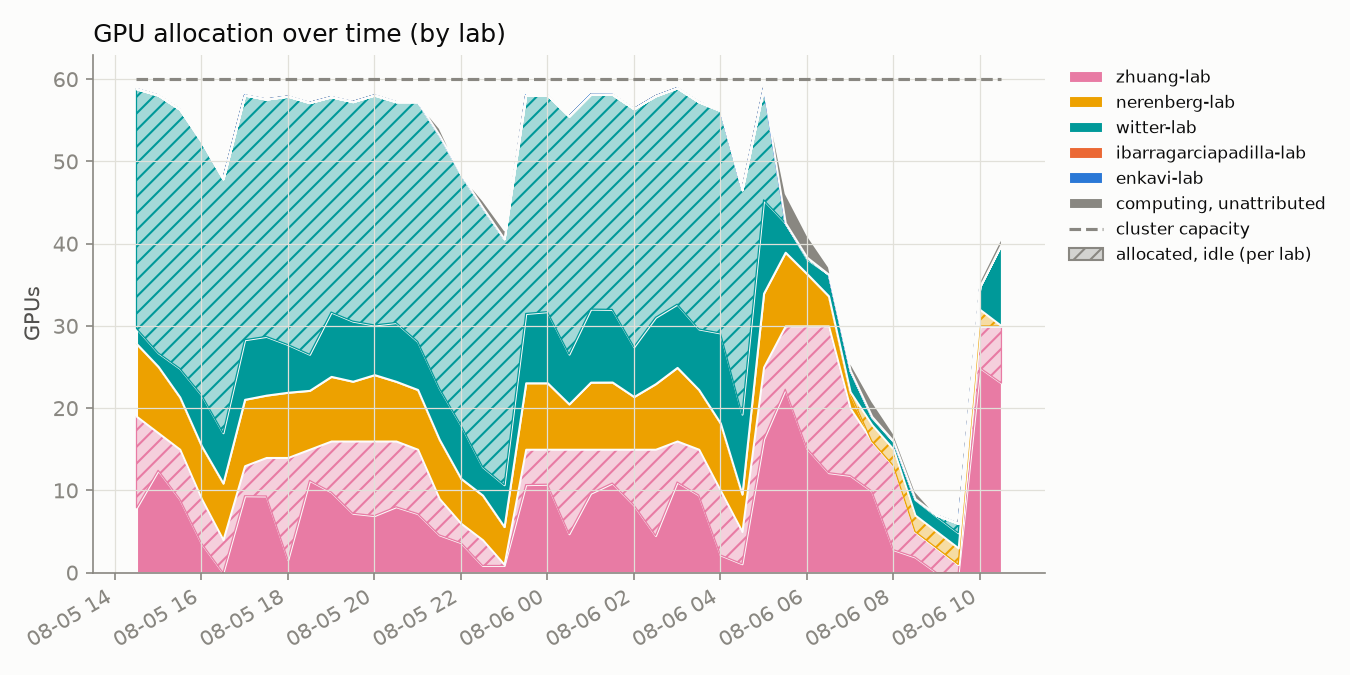
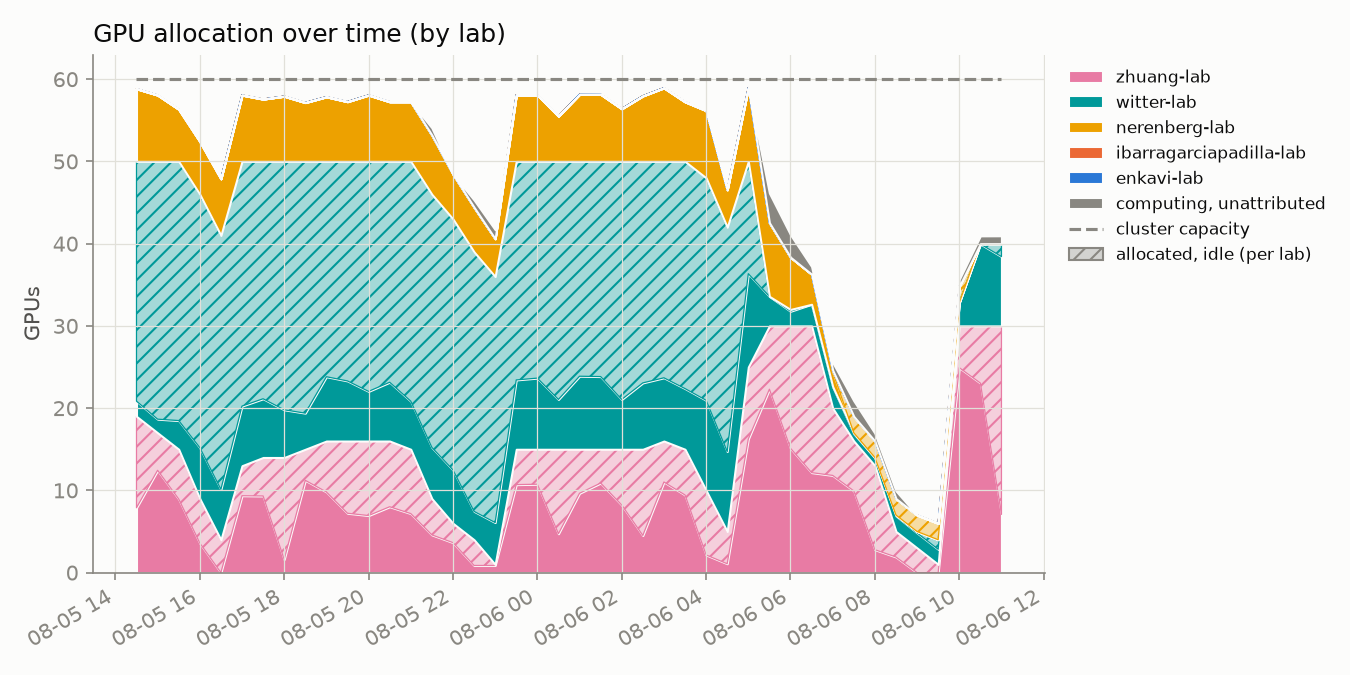
update 2026-08-06T11:00:01-07:00

diff --git a/README.md b/README.md
@@ -2,8 +2,8 @@
 
 Automated GPU/CPU/queue utilization tracker for `hopper.cluster`, updated every 30 minutes by cron. Usernames are anonymized to a stable per-account pseudonym; lab names are real.
 
-Last updated: 2026-08-06T10:30:20-07:00
-Samples: 41 queue snapshots, 41 GPU snapshots
+Last updated: 2026-08-06T11:00:21-07:00
+Samples: 42 queue snapshots, 42 GPU snapshots
 
 ## Resources
 
@@ -16,22 +16,22 @@ Samples: 41 queue snapshots, 41 GPU snapshots
 
 ## Headline
 
-- **71.5%** of the cluster's 60 GPUs allocated, averaged across all samples
+- **71.4%** of the cluster's 60 GPUs allocated, averaged across all samples
 - **39.4%** average `nvidia-smi` utilization *when* a GPU is allocated to a job
-- **81.4%** average cgroup CPU utilization *when* a CPU is allocated to a job
+- **81.7%** average cgroup CPU utilization *when* a CPU is allocated to a job
 
 ## Per lab / per user
 
 <table>
 <tr><th>Lab</th><th>User</th><th align='right'>GPU-hours allocated</th><th align='right'>CPU-hours allocated</th><th align='right'>GPU utilization</th></tr>
 <tr style='background-color:#d8efef'><td>witter-lab</td><td>user-d58f5a15</td><td align='right'>467.5</td><td align='right'>3740.0</td><td align='right'>9%</td></tr>
-<tr style='background-color:#fbebf1'><td>zhuang-lab</td><td>user-0db9ced0</td><td align='right'>301.5</td><td align='right'>301.5</td><td align='right'>49%</td></tr>
-<tr style='background-color:#d8efef'><td>witter-lab</td><td>user-554c620c</td><td align='right'>70.5</td><td align='right'>180.5</td><td align='right'>71%</td></tr>
+<tr style='background-color:#fbebf1'><td>zhuang-lab</td><td>user-0db9ced0</td><td align='right'>316.5</td><td align='right'>316.5</td><td align='right'>48%</td></tr>
+<tr style='background-color:#d8efef'><td>witter-lab</td><td>user-554c620c</td><td align='right'>75.5</td><td align='right'>186.0</td><td align='right'>71%</td></tr>
 <tr style='background-color:#fcf0d8'><td>nerenberg-lab</td><td>user-6bb5f332</td><td align='right'>40.0</td><td align='right'>200.0</td><td align='right'>71%</td></tr>
 <tr style='background-color:#dfeaf8'><td>enkavi-lab</td><td>user-c21bdaa4</td><td align='right'>0.0</td><td align='right'>14.0</td><td align='right'>—</td></tr>
-<tr style='background-color:#fce8e0'><td>ibarragarciapadilla-lab</td><td>user-eec7ffae</td><td align='right'>0.0</td><td align='right'>231.5</td><td align='right'>—</td></tr>
-<tr style='background-color:#fce8e0'><td>ibarragarciapadilla-lab</td><td>user-3cfc41a3</td><td align='right'>0.0</td><td align='right'>2325.0</td><td align='right'>—</td></tr>
+<tr style='background-color:#fce8e0'><td>ibarragarciapadilla-lab</td><td>user-3cfc41a3</td><td align='right'>0.0</td><td align='right'>2362.5</td><td align='right'>—</td></tr>
 <tr style='background-color:#fcf0d8'><td>nerenberg-lab</td><td>user-b12dc074</td><td align='right'>0.0</td><td align='right'>16.0</td><td align='right'>—</td></tr>
+<tr style='background-color:#fce8e0'><td>ibarragarciapadilla-lab</td><td>user-eec7ffae</td><td align='right'>0.0</td><td align='right'>233.0</td><td align='right'>—</td></tr>
 </table>
 
 (Row background is each lab's chart color, lightened, matching the charts above. GitHub strips inline CSS, so this table renders plain on github.com; the tint shows in renderers that keep inline styles, e.g. a local Markdown preview.)
@@ -44,7 +44,7 @@ Samples: 41 queue snapshots, 41 GPU snapshots
 
 Both charts share the same structure: solid color is *utilized* by lab, translucent + hatched (same color) on top of it is that lab's *allocated but idle*, solid gray above that is usage that couldn't be traced to a job or lab, and the dashed line is total cluster capacity - any gap above it is unallocated headroom. CPU utilization comes from cgroup v2 accounting (`cpu.stat`'s `usage_usec`, cumulative CPU time per job) read directly off each node, since `sstat` returns nothing usable for this on this cluster.
 
-Attribution is cross-referenced two ways: `nvidia-smi`'s own process listing (misses containerized/namespaced processes), backfilled from Slurm's GPU-to-job binding record (`scontrol show job -dd`). The scontrol fallback attributed **1343** GPU readings this run that the process-listing path missed.
+Attribution is cross-referenced two ways: `nvidia-smi`'s own process listing (misses containerized/namespaced processes), backfilled from Slurm's GPU-to-job binding record (`scontrol show job -dd`). The scontrol fallback attributed **1369** GPU readings this run that the process-listing path missed.
 
 ## Queue
 
@@ -56,7 +56,7 @@ Only jobs Slurm is actively scoring for scheduling (has a `sprio` priority) coun
 
 ![CPU usage vs GPU usage, decayed](assets/cpu_gpu_usage.png)
 
-Each point is one user at one snapshot (n=244), not averaged over time, to show how a user's position moves rather than collapsing it to a single number. Both axes are usage decayed with Slurm's own ~7-day fairshare half-life (`PriorityDecayHalfLife` on this cluster), not a lifetime total or a per-day average.
+Each point is one user at one snapshot (n=248), not averaged over time, to show how a user's position moves rather than collapsing it to a single number. Both axes are usage decayed with Slurm's own ~7-day fairshare half-life (`PriorityDecayHalfLife` on this cluster), not a lifetime total or a per-day average.
 
 **CPU usage (x-axis) is essentially what earns priority here; GPU usage (y-axis) is what Slurm could weight the same way but doesn't**: `PriorityWeightTRES` is unset, and partition `main` has no `TRESBillingWeights` configured, so fairshare usage accounting bills by CPU count alone - a job holding 4 GPUs and 8 CPUs accrues the same usage debt as an 8-CPU, no-GPU job. The users worth a second look are in the **upper-left**: low decayed CPU usage (high, unpenalized fairshare priority) paired with high decayed GPU usage.
 
